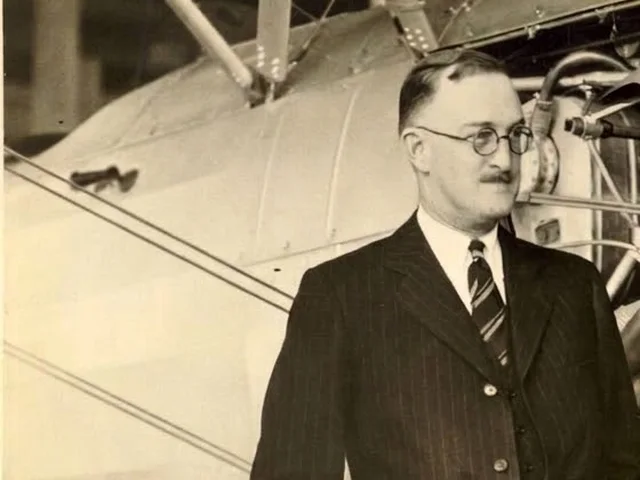
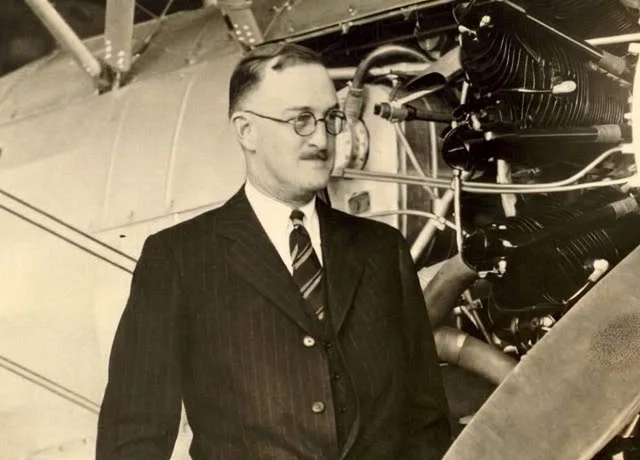
Hangar Escola: foto do cartão do Boeing mostra também o motor
Claude-Session: https://claude.ai/code/session_01PxKViBYL6qRqF4hkoHqSJb

diff --git a/aviao/sw.js b/aviao/sw.js
@@ -1,7 +1,7 @@
 /* Service worker: o app abre e funciona offline. */
-const CACHE = 'hangar-escola-v208';
+const CACHE = 'hangar-escola-v209';
 // Os arquivos levam "?v=" no index.html: ao mudar a versão, o celular nunca mistura CSS/JS antigo com HTML novo.
-const FILES = ['./', 'index.html', 'style.css?v=208', 'avioes.js?v=208', 'catalogo747.js?v=208', 'cockpit747.js?v=208', 'motor3d.js?v=208', 'motor747.js?v=208', 'meteo.js?v=208', 'radio.js?v=208', 'historia.js?v=208', 'desastres.js?v=208', 'app.js?v=208', 'icon.svg', 'apple-touch-icon.png', 'icon-192.png', 'icon-512.png', 'manifest.webmanifest', 'assets/747-lateral.jpg', 'assets/747-frontal.jpg', 'assets/747-motor.jpg', 'assets/747-superior.png', 'assets/747-lado.webp', 'assets/747-lado-prof.webp', 'assets/747-tras.webp', 'assets/747-tras-trem.webp', 'assets/bank-angle.mp3', 'assets/v1.mp3', 'assets/nuvem-cb.webp', 'assets/nuvem-cu.webp', 'assets/nuvem-ci.webp', 'assets/nuvem-cc.webp', 'assets/nuvem-cs.webp', 'assets/nuvem-ac.webp', 'assets/nuvem-as.webp', 'assets/nuvem-ns.webp', 'assets/nuvem-sc.webp', 'assets/nuvem-st.webp', 'assets/nuvens-atlas.webp', 'assets/historia-1881.webp', 'assets/historia-vevey.webp', 'assets/historia-serraria.webp', 'assets/historia-dominguez.webp', 'assets/historia-curtiss.webp', 'assets/jal123-mapa.webp', 'assets/jal123-haneda.webp', 'assets/jal123-decolagem.webp', 'assets/jal123-cauda.webp', 'assets/jal123-cabine.webp', 'assets/jal123-hidraulico.webp', 'assets/jal123-manetes.webp', 'assets/jal123-montanhas.webp', 'assets/jal123-bilhete.webp', 'assets/jal123-c130.webp', 'assets/jal123-deriva.webp', 'assets/af447-mapa.webp', 'assets/af447-galeao.webp', 'assets/af447-decolagem.webp', 'assets/af447-lua.webp', 'assets/af447-tempestade.webp', 'assets/af447-painel.webp', 'assets/cauda-af.webp', 'assets/cauda-jal.webp', 'assets/cauda-mh.webp', 'assets/cauda-gol.webp', 'assets/cauda-tk.webp', 'assets/tk981-mapa.webp', 'assets/tk981-orly.webp', 'assets/tk981-dc10.webp', 'assets/tk981-porta.webp', 'assets/tk981-ganchos.webp', 'assets/tk981-decolagem.webp', 'assets/tk981-cabos.webp', 'assets/tk981-floresta.webp', 'assets/tk981-saintpathus.webp', 'assets/tk981-memorando.webp', 'assets/tk981-inspecao.webp', 'assets/douglas-brooklyn.webp', 'assets/douglas-fortmyer.webp', 'assets/douglas-annapolis.webp', 'assets/douglas-mit.webp', 'assets/douglas-mb1.webp', 'assets/douglas-barbearia.webp', 'assets/douglas-cloudster.webp', 'assets/douglas-dt.webp', 'assets/douglas-partida.webp', 'assets/douglas-alasca.webp', 'assets/capa-boeing.webp', 'assets/tk981-resgate.webp', 'assets/gol1907-mapa.webp', 'assets/gol1907-legacy-sjc.webp', 'assets/gol1907-737.webp', 'assets/gol1907-legacy-voo.webp', 'assets/gol1907-cabine-legacy.webp', 'assets/gol1907-acc.webp', 'assets/gol1907-choque.webp', 'assets/gol1907-queda.webp', 'assets/gol1907-legacy-dano.webp', 'assets/gol1907-painel.webp', 'assets/gol1907-mata.webp', 'assets/gol1907-relatorio.webp', 'assets/gol1907-apagao.webp', 'assets/gol1907-justica.webp', 'assets/gol1907-destrocos.webp', 'assets/gol1907-rumo.webp', 'assets/gol1907-falha.webp', 'assets/gol1907-tcas.webp', 'assets/gol1907-controle.webp', 'assets/af447-pitot.webp', 'assets/af447-pitot-gelo.webp', 'assets/af447-manches.webp', 'assets/af447-estol.webp', 'assets/af447-cabine.webp', 'assets/af447-queda.webp', 'assets/af447-deriva.webp', 'assets/af447-painel-voos.webp', 'assets/af447-fundo.webp', 'assets/af447-relatorio.webp', 'assets/af447-sondas.webp', 'assets/af447-tribunal.webp', 'assets/af447-estol-diagrama.webp', 'assets/mh370-mapa.webp', 'assets/mh370-klia.webp', 'assets/mh370-decolagem.webp', 'assets/mh370-cinto.webp', 'assets/mh370-radar.webp', 'assets/mh370-peninsula.webp', 'assets/mh370-oceano.webp', 'assets/mh370-ultimo-eco.webp', 'assets/mh370-satelite.webp', 'assets/mh370-busca.webp', 'assets/mh370-bluefin.webp', 'assets/mh370-deriva.webp'];
+const FILES = ['./', 'index.html', 'style.css?v=209', 'avioes.js?v=209', 'catalogo747.js?v=209', 'cockpit747.js?v=209', 'motor3d.js?v=209', 'motor747.js?v=209', 'meteo.js?v=209', 'radio.js?v=209', 'historia.js?v=209', 'desastres.js?v=209', 'app.js?v=209', 'icon.svg', 'apple-touch-icon.png', 'icon-192.png', 'icon-512.png', 'manifest.webmanifest', 'assets/747-lateral.jpg', 'assets/747-frontal.jpg', 'assets/747-motor.jpg', 'assets/747-superior.png', 'assets/747-lado.webp', 'assets/747-lado-prof.webp', 'assets/747-tras.webp', 'assets/747-tras-trem.webp', 'assets/bank-angle.mp3', 'assets/v1.mp3', 'assets/nuvem-cb.webp', 'assets/nuvem-cu.webp', 'assets/nuvem-ci.webp', 'assets/nuvem-cc.webp', 'assets/nuvem-cs.webp', 'assets/nuvem-ac.webp', 'assets/nuvem-as.webp', 'assets/nuvem-ns.webp', 'assets/nuvem-sc.webp', 'assets/nuvem-st.webp', 'assets/nuvens-atlas.webp', 'assets/historia-1881.webp', 'assets/historia-vevey.webp', 'assets/historia-serraria.webp', 'assets/historia-dominguez.webp', 'assets/historia-curtiss.webp', 'assets/jal123-mapa.webp', 'assets/jal123-haneda.webp', 'assets/jal123-decolagem.webp', 'assets/jal123-cauda.webp', 'assets/jal123-cabine.webp', 'assets/jal123-hidraulico.webp', 'assets/jal123-manetes.webp', 'assets/jal123-montanhas.webp', 'assets/jal123-bilhete.webp', 'assets/jal123-c130.webp', 'assets/jal123-deriva.webp', 'assets/af447-mapa.webp', 'assets/af447-galeao.webp', 'assets/af447-decolagem.webp', 'assets/af447-lua.webp', 'assets/af447-tempestade.webp', 'assets/af447-painel.webp', 'assets/cauda-af.webp', 'assets/cauda-jal.webp', 'assets/cauda-mh.webp', 'assets/cauda-gol.webp', 'assets/cauda-tk.webp', 'assets/tk981-mapa.webp', 'assets/tk981-orly.webp', 'assets/tk981-dc10.webp', 'assets/tk981-porta.webp', 'assets/tk981-ganchos.webp', 'assets/tk981-decolagem.webp', 'assets/tk981-cabos.webp', 'assets/tk981-floresta.webp', 'assets/tk981-saintpathus.webp', 'assets/tk981-memorando.webp', 'assets/tk981-inspecao.webp', 'assets/douglas-brooklyn.webp', 'assets/douglas-fortmyer.webp', 'assets/douglas-annapolis.webp', 'assets/douglas-mit.webp', 'assets/douglas-mb1.webp', 'assets/douglas-barbearia.webp', 'assets/douglas-cloudster.webp', 'assets/douglas-dt.webp', 'assets/douglas-partida.webp', 'assets/douglas-alasca.webp', 'assets/capa-boeing.webp', 'assets/tk981-resgate.webp', 'assets/gol1907-mapa.webp', 'assets/gol1907-legacy-sjc.webp', 'assets/gol1907-737.webp', 'assets/gol1907-legacy-voo.webp', 'assets/gol1907-cabine-legacy.webp', 'assets/gol1907-acc.webp', 'assets/gol1907-choque.webp', 'assets/gol1907-queda.webp', 'assets/gol1907-legacy-dano.webp', 'assets/gol1907-painel.webp', 'assets/gol1907-mata.webp', 'assets/gol1907-relatorio.webp', 'assets/gol1907-apagao.webp', 'assets/gol1907-justica.webp', 'assets/gol1907-destrocos.webp', 'assets/gol1907-rumo.webp', 'assets/gol1907-falha.webp', 'assets/gol1907-tcas.webp', 'assets/gol1907-controle.webp', 'assets/af447-pitot.webp', 'assets/af447-pitot-gelo.webp', 'assets/af447-manches.webp', 'assets/af447-estol.webp', 'assets/af447-cabine.webp', 'assets/af447-queda.webp', 'assets/af447-deriva.webp', 'assets/af447-painel-voos.webp', 'assets/af447-fundo.webp', 'assets/af447-relatorio.webp', 'assets/af447-sondas.webp', 'assets/af447-tribunal.webp', 'assets/af447-estol-diagrama.webp', 'assets/mh370-mapa.webp', 'assets/mh370-klia.webp', 'assets/mh370-decolagem.webp', 'assets/mh370-cinto.webp', 'assets/mh370-radar.webp', 'assets/mh370-peninsula.webp', 'assets/mh370-oceano.webp', 'assets/mh370-ultimo-eco.webp', 'assets/mh370-satelite.webp', 'assets/mh370-busca.webp', 'assets/mh370-bluefin.webp', 'assets/mh370-deriva.webp'];
 
 self.addEventListener('install', (e) => {
   e.waitUntil(caches.open(CACHE).then((c) => c.addAll(FILES)).then(() => self.skipWaiting()));

diff --git a/aviao/index.html b/aviao/index.html
@@ -17,7 +17,7 @@
   <link rel="preconnect" href="https://fonts.googleapis.com">
   <link rel="preconnect" href="https://fonts.gstatic.com" crossorigin>
   <link href="https://fonts.googleapis.com/css2?family=Barlow+Condensed:wght@500;600;700&family=IBM+Plex+Mono:wght@400;500&family=IBM+Plex+Sans:wght@400;500;600&display=swap" rel="stylesheet">
-  <link rel="stylesheet" href="style.css?v=208">
+  <link rel="stylesheet" href="style.css?v=209">
 </head>
 <body>
   <!-- Intro: o avião decola pela pista iluminada e aparece o nome do app (toque para pular) -->
@@ -994,16 +994,16 @@
       </div>
     </section>
   </aside>
-  <script src="avioes.js?v=208"></script>
-  <script src="catalogo747.js?v=208"></script>
-  <script src="cockpit747.js?v=208"></script>
-  <script src="motor3d.js?v=208"></script>
-  <script src="motor747.js?v=208"></script>
-  <script src="meteo.js?v=208"></script>
-  <script src="radio.js?v=208"></script>
-  <script src="historia.js?v=208"></script>
-  <script src="desastres.js?v=208"></script>
-  <script src="app.js?v=208"></script>
+  <script src="avioes.js?v=209"></script>
+  <script src="catalogo747.js?v=209"></script>
+  <script src="cockpit747.js?v=209"></script>
+  <script src="motor3d.js?v=209"></script>
+  <script src="motor747.js?v=209"></script>
+  <script src="meteo.js?v=209"></script>
+  <script src="radio.js?v=209"></script>
+  <script src="historia.js?v=209"></script>
+  <script src="desastres.js?v=209"></script>
+  <script src="app.js?v=209"></script>
   <script>
     // No APK os arquivos já vêm dentro do app; o service worker é só para o site.
     const nativo = !!(window.Capacitor && window.Capacitor.isNativePlatform && window.Capacitor.isNativePlatform());

diff --git a/aviao/style.css b/aviao/style.css
@@ -1383,4 +1383,4 @@ html.menu-lock, html.menu-lock body { overflow: hidden; overscroll-behavior: non
 .hs-pick .dz-pick__caret, .hs-pick .dz-pick__btn, .hs-pick .dz__list .dz-item { -webkit-tap-highlight-color: transparent; touch-action: manipulation; }
 .hs-spin-slow { animation: hsSpin 14s linear infinite; }
 @media (prefers-reduced-motion: reduce) { .hs-spin-slow { animation: none !important; } }
-.hs-capa { width: 50%; object-position: 75% 35%; -webkit-mask-image: linear-gradient(to right, transparent 0%, #000 45%); mask-image: linear-gradient(to right, transparent 0%, #000 45%); }
+.hs-capa { width: 56%; object-position: 60% 35%; -webkit-mask-image: linear-gradient(to right, transparent 0%, #000 38%); mask-image: linear-gradient(to right, transparent 0%, #000 38%); }
